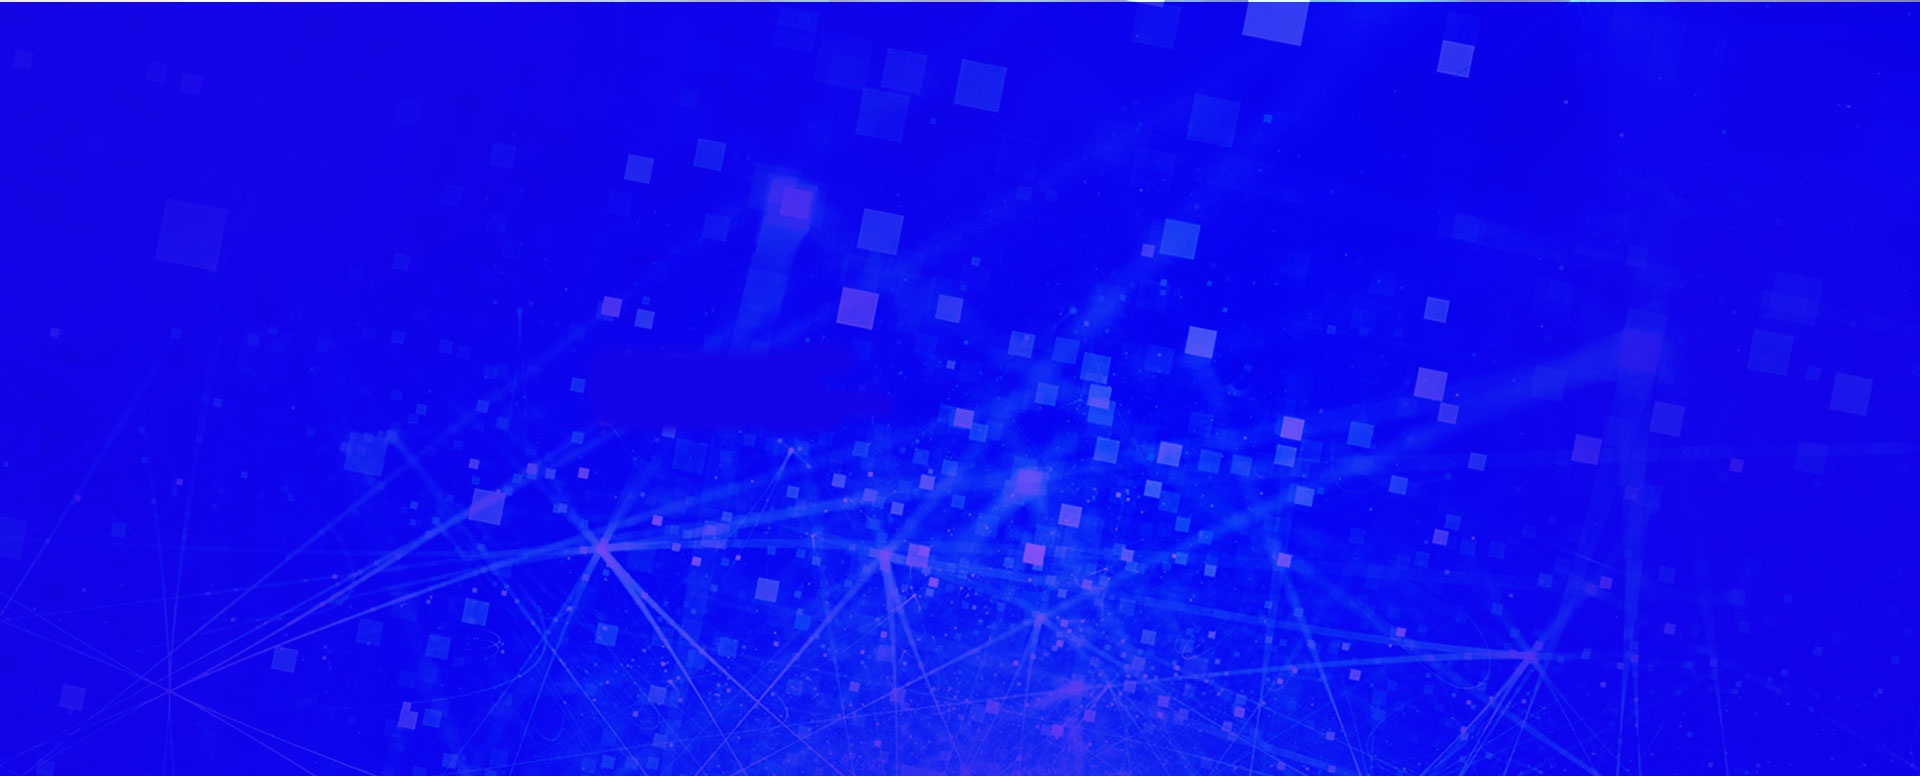
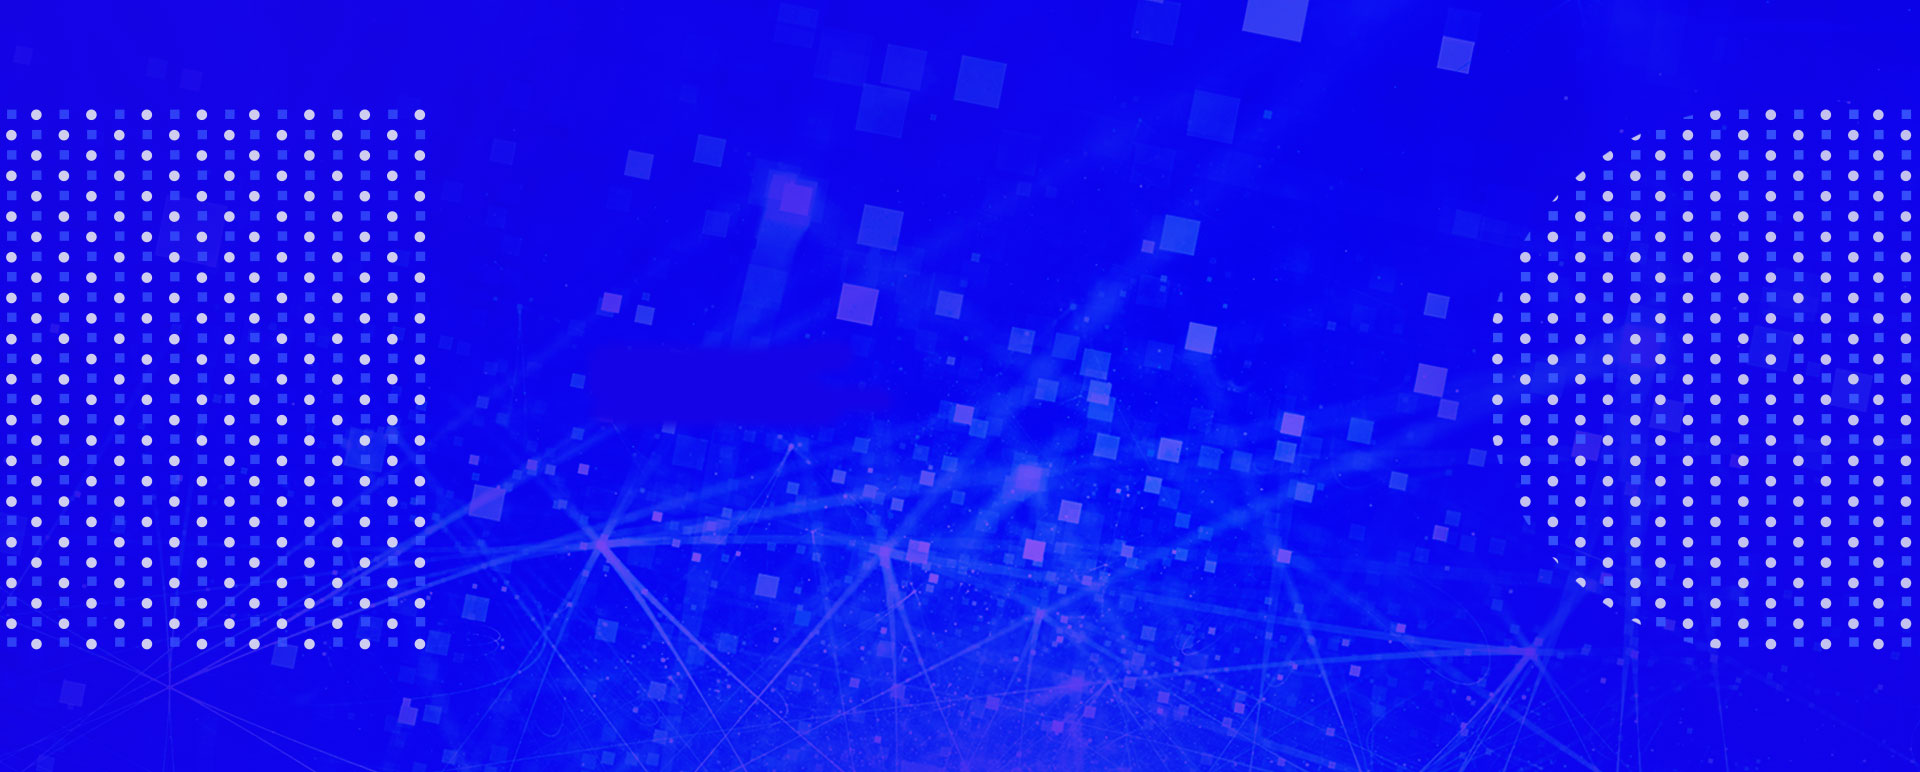
END STYLE HOMEPAGE TODO: MOBILE ver.1

diff --git a/app/sass/_homepage.scss b/app/sass/_homepage.scss
@@ -1,16 +1,31 @@
 .block-about {
-  position: relative; box-shadow: 4px 0 70px rgba(86, 103, 146, .1); margin-bottom: 60px;
+  position: relative; box-shadow: 4px 60px 70px -50px rgba(86, 103, 146, .1); margin-bottom: 110px;
   .wrap {
     position: relative;
   }
   blockquote {
     position: absolute; right: 12%; top: 27.3%;
+    @media (max-width: 1330px) {
+      right: 15px;
+    }
+    @media (max-width: 1200px) {
+      display: none;
+    }
   }
   &:after {
     content: ''; display: block; background: url("../images/bg-about3.png")no-repeat 0 0; width: 46%; height: 36%; position: absolute; top: 57%; right: 3.5%;
+    @media (max-width: 991px) {
+      content: none;
+    }
   }
   &:before {
     content: ''; display: block; min-height: 60px; position: absolute; left: 0; right: 0; bottom: -60px; background: url("../images/bg-about2.png") no-repeat 0 0;
+    @media (max-width: 991px) {
+      content: none;
+    }
+  }
+  @media (max-width: 991px) {
+    margin-bottom: 35px;
   }
 }
 .about-description {
@@ -107,6 +122,9 @@
         }
       }
     }
+    @media (max-width: 991px) {
+      margin-bottom: 20px;
+    }
   }
 }
 .block-rates {
@@ -120,6 +138,14 @@
       }
     }
   }
+  @media (max-width: 900px) {
+    .rates {
+      padding: 25px 0; background: none;
+      .rates-button:not(:last-child) {
+        margin-bottom: 15px;
+      }
+    }
+  }
 }
 .btn-rate {
   width: 60%; padding: 22px 33px 22px 35px; font-size: 28px; text-align: left; display: block;
@@ -127,11 +153,17 @@
     &:after {
      content: 'БЕЗКОШТОВНО';
     }
+    @media (max-width: 900px) {
+      width: 340px;
+    }
   }
   &.__permission {
     display: inline-block;
     &:after {
       content: 'ДОСТУП'; background: $color-blue; width: 60%; right: -10%;
+    }
+    @media (max-width: 900px) {
+      width: 370px;
     }
   }
   &:after {
@@ -140,22 +172,26 @@
 }
 .block-position {
  background: url('../images/bg-home.png')no-repeat 50% 50%, url("../images/bg-city.png")no-repeat 50% 0 #1607e0; padding: 20px 0 28.7%; margin-bottom: 23%; position: relative; text-align: center;
+  min-height: 680px;
   .title-position {
     color: $color-white; font-size: 35px; line-height: 58px; font-weight: bold; text-align: center; display: inline-block; text-decoration: underline; text-decoration-color: $color-red;
     .sub-title {
       display: block;
     }
+    @media (max-width: 600px) {
+      font-size: 27px; line-height: 30px;
+    }
   }
   .slick-list {
-    padding: 50px 0; margin: 0 -15px;
+    padding: 0 0 50px;  margin-right: -20px;
   }
   .positions {
     position: absolute; bottom: -50%; left: 0; right: 0; max-width: 1270px; margin: 0 auto;
     .positions-item {
-      text-align: center; background: $color-white; padding: 40px 40px 0; border: 4px solid $color-blue; overflow: hidden;  box-shadow: 4px 0 70px rgba(86, 103, 146, .1);
-      margin: 0 10px;
+      text-align: center; background: $color-white; padding: 40px 40px 0; border: 4px solid $color-blue; overflow: hidden; box-shadow: 0px 30px 70px -44px rgba(86, 103, 146, .1);
+      margin-right: 20px;
       .image {
-        margin-bottom: 30px;
+        margin-bottom: 30px; display: inline-block;
       }
       .title {
         font-size: 24px; line-height: 28px; margin-bottom: 21px; font-weight: bold;
@@ -181,6 +217,68 @@
       }
       &.slick-current {
         border-color: $color-red;
+      }
+      &[aria-hidden="false"]:last-child {
+        margin-right: 0;
+      }
+    }
+  }
+  @media (max-width: 1370px) {
+    margin-bottom: 400px;
+    .positions {
+      padding: 0 15px;
+    }
+    .slick-arrow {
+      top: auto; bottom: -50px;
+      &.slick-prev {
+        left: 45%;
+      }
+      &.slick-next {
+        right: 45%;
+      }
+    }
+  }
+}
+.block-advantages {
+  text-align: center; margin-bottom: 70px;
+  .advantages {
+    max-width: 1315px; margin: 0 auto; display: flex; justify-content: space-between; flex-wrap: wrap;
+    .advantages-item {
+      box-shadow: 4px 0 70px rgba(86, 103, 146, .1); background: $color-white; padding: 35px; display: flex; align-items: center; text-align: left;
+      width: 48%; margin-bottom: 50px;
+      .image {
+        flex-shrink: 0; margin-right: 30px;
+      }
+      .description {
+        font-size: 20px; line-height: 26px; color: #282828;
+        b {
+          font-size: 26px; line-height: 34px; display: block;
+        }
+      }
+      @media (max-width: 991px) {
+        padding: 15px 25px; flex-wrap: wrap; justify-content: center;
+        .image {
+          margin-right: 0; margin-bottom: 15px;
+        }
+        .description {
+          width: 100%;
+        }
+      }
+      @media (max-width: 768px) {
+        width: 100%; margin-bottom: 25px; text-align: center;
+      }
+    }
+  }
+  .btn-rate {
+    display: inline-block; width: auto; border: 4px solid $color-blue-l; font-size: 20px; color: $color-blue-l; padding: 12px 75px 12px 17px; position: relative; transition: all .3s ease;
+    &:after {
+      background: #de1922; color: $color-white; font-size: 20px; line-height: 57px; border-radius: 27px; height: 57px; position: absolute; width: 213px;
+      padding: 0; text-align: center; transition: all .3s ease; top: 50%;
+    }
+    &:hover, &:focus, &:active {
+      background: transparent; border-color: #de1922; color: #de1922;
+      &:after {
+        background: $color-blue-l;
       }
     }
   }

diff --git a/app/sass/_header.scss b/app/sass/_header.scss
@@ -4,14 +4,19 @@
     margin-bottom: 0;
   }
   .logo {
-    width: 28%; margin-right: 26px;
+    width: 28%; margin-right: 26px; flex-shrink: 0;
+    @media (max-width: 1240px) {
+      margin: 0;
+    }
+  }
+  .title-header {
+    flex-shrink: 0;
   }
 }
 .header-middle {
   position: relative;
   .bg-image {
-    padding: 0 0 40.7%;
-    min-height: 350px;
+    padding: 0 0 40.7%; min-height: 550px; background-position: 50% 50%;
   }
   .search-block {
     max-width: 1018px; margin: 0 auto; padding: 0 15px; position: absolute; top: 48%; left: 0; right: 0; transform: translateY(-50%); text-align: center;
@@ -39,7 +44,7 @@
       &:not(.select) {
         background: $color-white; border: 7px solid $color-red; border-radius: 50px; height: 100px; margin-bottom: 0; line-height: 81px; padding: 0 72px;
         input {
-          width: 100%; height: 35px; margin-bottom: 0; border-bottom: none; position: relative; box-sizing: border-box; line-height: 25px; padding-left: 3px;
+          width: 100%; height: 35px; margin-bottom: 0; border: none; position: relative; box-sizing: border-box; line-height: 25px; padding-left: 3px;
           &:focus {
             box-shadow: none; border-bottom: none;
           }
@@ -56,13 +61,13 @@
       position: absolute; top: 50%; transform: translateY(-50%); right: 32px;
     }
   }
-  &:before {
+/*  &:before {
     content: ''; display: block; height: 79%; width: 22%; position: absolute; top: 50%; left: 10px; transform: translateY(-50%); background: url("../images/bg-repeat.png");
   }
   &:after {
     content: ''; display: block; height: 79%; width: 20%; position: absolute; top: 50%; right: 0; transform: translateY(-50%); background: url("../images/bg-repeat.png");
     border-bottom-left-radius: 65%; border-top-left-radius: 65%;
-  }
+  }*/
   .btn-anchor {
     position: absolute; bottom: 42px; left: 50%; transform: translateX(-50%);
   }
@@ -102,6 +107,9 @@
   margin-bottom: 118px;
   .main-menu {
     border-top: 1px solid $color-border; border-bottom: 1px solid $color-border;
+  }
+  @media (max-width: 991px) {
+    margin-bottom: 35px;
   }
 }
 .btn-group {

diff --git a/app/sass/_template.scss b/app/sass/_template.scss
@@ -81,7 +81,7 @@ sup {
   max-width: 1560px; padding: 0 15px; margin: 0 auto;
 }
 .wrap {
-  max-width: 1315px; padding: 0 15px; margin: 0 auto;
+  max-width: 1315px; margin: 0 auto;
 }
 .footer-wrap {
   max-width: 1360px; padding: 0 15px; margin: 0 auto;
@@ -89,6 +89,9 @@ sup {
 /* BEGIN TITLE */
   .title-header {
     font-size: 24px; letter-spacing: 3px;
+    @media (max-width: 1240px) {
+      font-size: 20px;
+    }
   }
   .title-page {
     font-weight: bold; font-size: 44px; color: $color-white; text-align: center; text-transform: uppercase; margin-bottom: 40px; letter-spacing: 2.2px; line-height: 53px;
@@ -117,12 +120,15 @@ sup {
     &:after {
       right: 0; background: $color-light-red; border-radius: 50%;
     }
+    @media (max-width: 767px) {
+      margin-bottom: 25px;
+    }
   }
 /* END TITLE */
 /** BEGIN BTN STYLE **/
 .btn {
   border: 3px solid $color-blue; color: $color-blue;  text-transform: uppercase; font-weight: bold; padding: 4px 24px 4px 10px; font-size: 18px; height: auto; line-height: normal;
-  background: transparent; box-shadow: none;
+  background: transparent; box-shadow: none!important;
 }
 .btn-contact, .btn-read-more {
   position: relative; transition: all .3s ease;
@@ -299,15 +305,23 @@ textarea {
      font-size: 70px; font-family: "Icons"; color: #3022e3; opacity: 1;
    }
    &.slick-next {
-     right: -80px;
+     right: -4%;
      &:before {
        content: '\E00E';
      }
    }
    &.slick-prev {
-     transform: rotate(-180deg); left: -62px; transform-origin: 0 37%;
+     transform: rotate(-180deg); left: -4%; transform-origin: 0 37%;
      &:before {
        content: '\E00E';
+     }
+   }
+   @media (max-width: 1500px) {
+     &.slick-next {
+       right: 0;
+     }
+     &.slick-prev {
+       left: 0;
      }
    }
  }

diff --git a/app/js/main.js b/app/js/main.js
@@ -15,10 +15,34 @@ $(document).ready(function() {
     }
     heightEL($('.news-item__info .title-news'));
     heightEL($('.news-item__info .text'));
+    heightEL($('.advantages .advantages-item'));
 
     $('.js-slider-position').slick({
-        infinite: true,
+        infinite: false,
         slidesToShow: 4,
-        slidesToScroll: 1
+        slidesToScroll: 1,
+        responsive: [
+            {
+                breakpoint: 1250,
+                settings: {
+                    slidesToShow: 3,
+                    slidesToScroll: 1
+                }
+            },
+            {
+                breakpoint: 930,
+                settings: {
+                    slidesToShow: 2,
+                    slidesToScroll: 2
+                }
+            },
+            {
+                breakpoint: 570,
+                settings: {
+                    slidesToShow: 1,
+                    slidesToScroll: 1
+                }
+            }
+        ]
     });
 });

diff --git a/app/sass/_reset.scss b/app/sass/_reset.scss
@@ -1,7 +1,7 @@
 html {
   height: 100%;
   box-sizing: border-box;
-  font-family: "Gotham","Roboto", "Arial", sans-serif;
+  font-family: "Gilroy", "Arial", sans-serif;
 }
 body {
   display: -webkit-flex;  display: -moz-flex; display: -ms-flex; display: -o-flex; flex-direction: column; font-size: 14px; font-weight: normal; line-height: 20px; min-height: 100vh;
